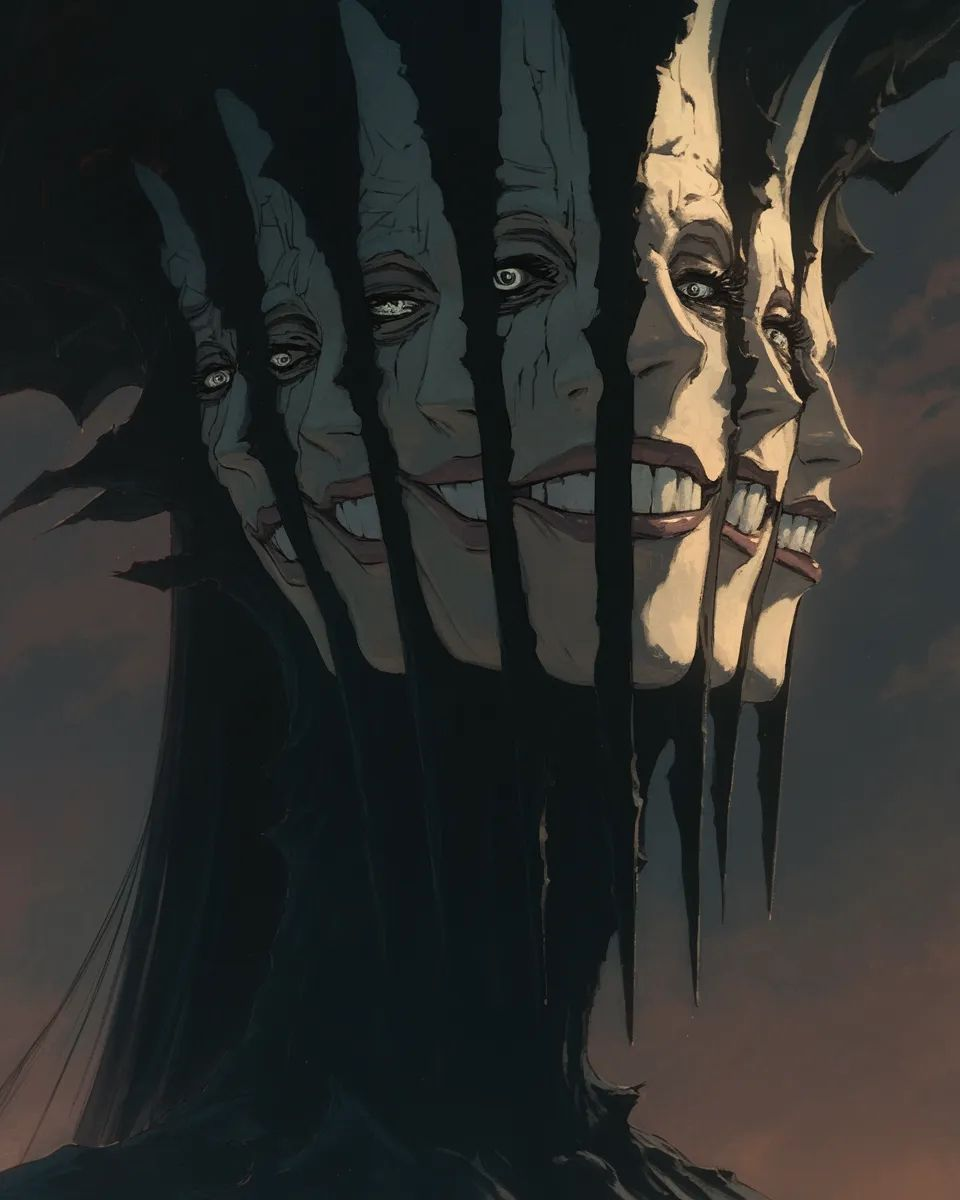
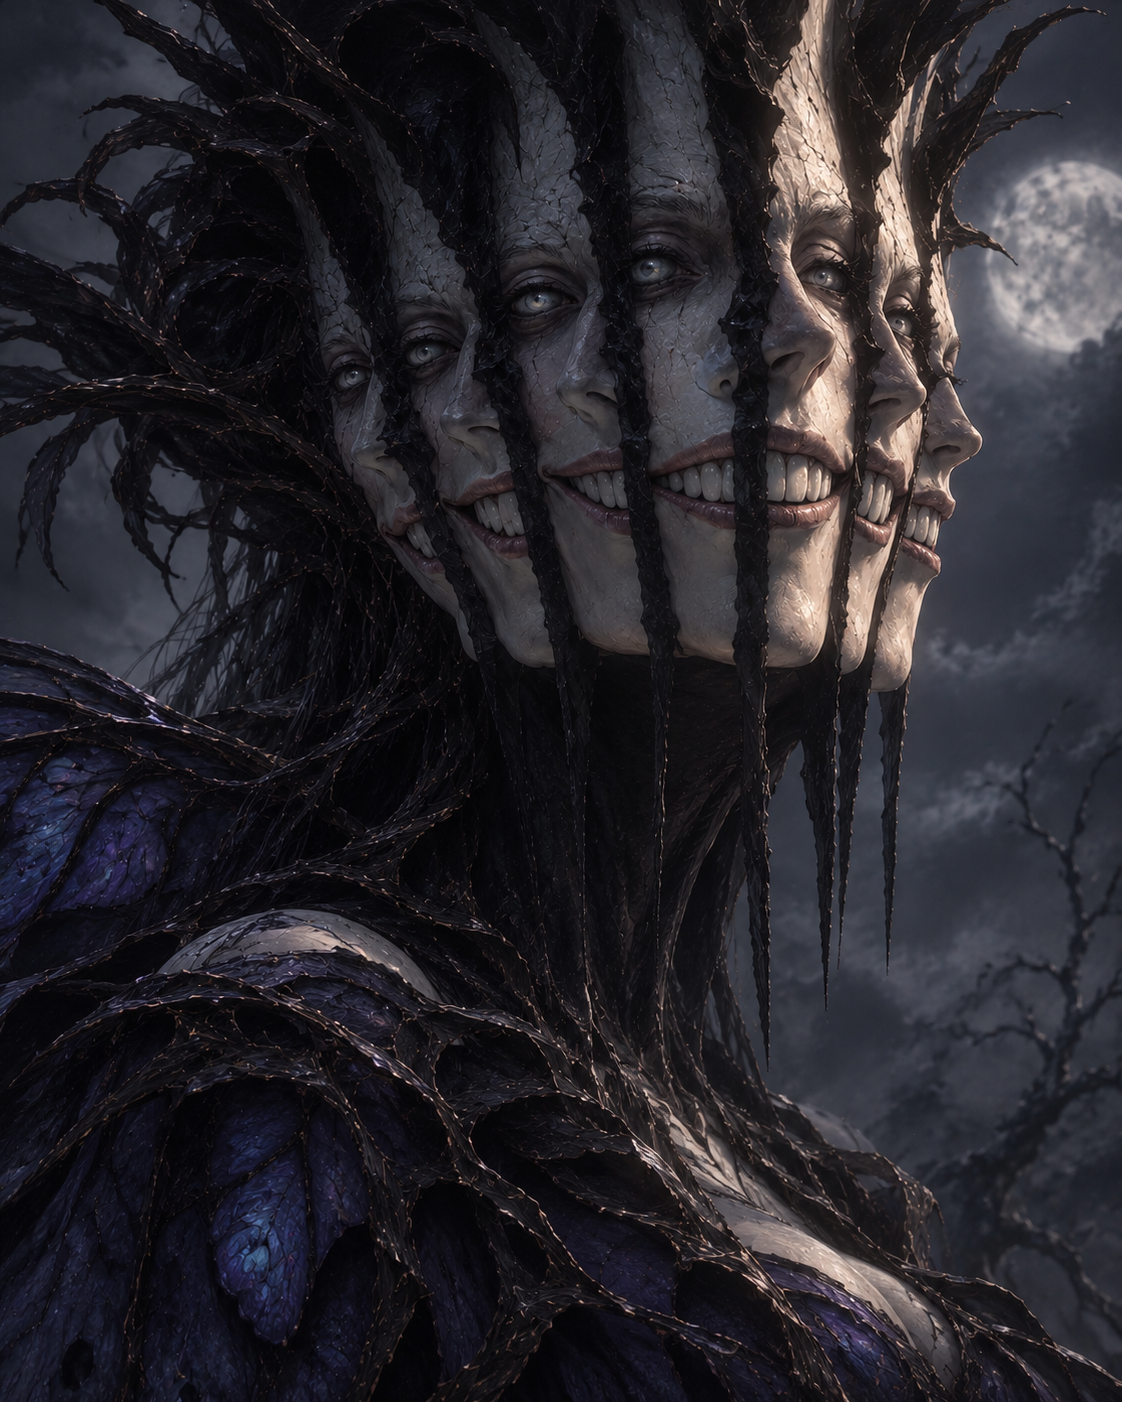
new images

diff --git a/home_vaults/Victoria/Backstory info/Personas/Vampiros/Amalfrida de Vairae.md b/home_vaults/Victoria/Backstory info/Personas/Vampiros/Amalfrida de Vairae.md
@@ -20,6 +20,6 @@ imagen: "[[Amalfrida de Vairae.png]]"
 ---
 ![[Amalfrida de Vairae.png]]
 
-![[Pasted image 20260910231512.png]]
+![[Amalfrida de Vairae 2.png]]
 
 ![[Pasted image 20260910231532.png]]
